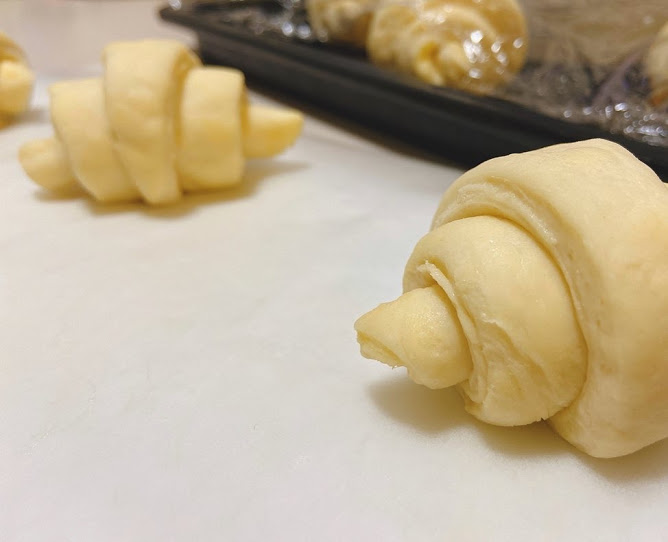
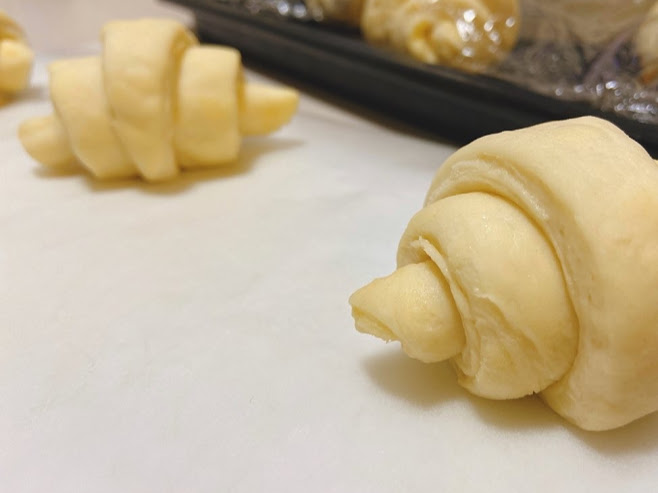
1

diff --git a/croissant.html b/croissant.html
@@ -34,22 +34,22 @@
 <h2 class="section-title">▽フォトギャラリー△</h2>
 
 <div class="contents-item">
-<img src= "image/croi1.jpg" title="成形後のパンたち" width="350">
+<img src= "image/croi1.jpg" title="成形後のパンたち" >
 <p>〜 成形 〜</p>
 </div>
 
 <div class="contents-item">
-<img src="image/croi2.jpg" title="焼成中のパンたち" width="350" height="284">
+<img src="image/croi2.jpg" title="焼成中のパンたち" >
 <p>〜 焼成中 〜</p>
 </div>
  
 <div class="contents-item">
-<img src="image/croi3.jpg" title="焼きたてのパンたち" width="350">
+<img src="image/croi3.jpg" title="焼きたてのパンたち" >
 <p>〜 焼き上がり 〜</p>
 </div>
  
 <div class="contents-item">
-<img src="image/croi4.jpg" title="焼き上がり" width="350">
+<img src="image/croi4.jpg" title="焼きたてのパンたち" >
 <p>〜 焼き上がり 〜</p>
 </div>
 

diff --git a/cinnamon.html b/cinnamon.html
@@ -35,22 +35,22 @@
 <h2 class="section-title">▽フォトギャラリー△</h2>
 
 <div class="contents-item">
-<img src="image/cinnamon1.jpg" title="成形" width="350">
+<img src="image/cinnamon1.jpg" title="成形" >
 <p>〜 成形〜</p>
 </div>
 
 <div class="contents-item">
-<img src="image/cinnamon2.jpg" title="焼成中" width="350">
+<img src="image/cinnamon2.jpg" title="焼成中" >
 <p>〜 焼成中 〜</p>
 </div>
 
 <div class="contents-item">
-<img src="image/cinnamon3.jpg" title="焼きあがり" width="350">
+<img src="image/cinnamon3.jpg" title="焼きあがり" >
 <p>〜 焼き上がり 〜</p>
 </div>
 
 <div class="contents-item">
-<img src="image/cinnamon4.jpg" title="仕上げ" width="350">
+<img src="image/cinnamon4.jpg" title="仕上げ" >
 <p>〜 仕上げ 〜</p>
 </div>
 

diff --git a/shiro.html b/shiro.html
@@ -26,9 +26,9 @@
 </div>
   
 <div class= "coments">
-コロンとしたフォルムがかわいい白パン<br>
-シンプルだけどふんわりもちっと食感がおいしさのポイント<br>
-自家製カシューナッツバターで可愛くおめかしパンに
+コロンとしたフォルムがかわいい白パン。<br>
+シンプルだけどふんわりもちっと食感がおいしさのポイント◎<br>
+自家製カシューナッツバターで可愛くおめかしパンに。
 </div>
 
 <div class= "contents">

diff --git a/croissantstyle.css b/croissantstyle.css
@@ -55,13 +55,12 @@ float: left;
 text-align: center;
 width: 50%;
 margin-top: 50px;
-
 }
 
 .contents-item img{
 display: inline-block;
 vertical-align:middle;
-
+width: 62%;
 }
 
 .contents-item p {

diff --git a/cinnamonstyle.css b/cinnamonstyle.css
@@ -62,7 +62,7 @@ margin-top: 50px;
 .contents-item img{
 display: inline-block;
 vertical-align: middle;
-
+width: 62%;
 }
 
 .contents-item p {

diff --git a/kurumistyle.css b/kurumistyle.css
@@ -64,7 +64,7 @@ margin-top: 50px;
 .contents-item img{
 display: inline-block;
 vertical-align: middle;
-
+width: 62%;
 }
 
 .contents-item p {

diff --git a/melonstyle.css b/melonstyle.css
@@ -63,7 +63,7 @@ margin-top: 50px;
 .contents-item img{
 display: inline-block;
 vertical-align: middle;
-
+width: 62%;
 }
 
 .contents-item p {

diff --git a/petitstyle.css b/petitstyle.css
@@ -64,7 +64,7 @@ margin-top: 50px;
 .contents-item img{
 display: inline-block;
 vertical-align: middle;
-
+width: 62%;
 }
 
 .contents-item p {

diff --git a/raisenstyle.css b/raisenstyle.css
@@ -64,7 +64,7 @@ margin-top: 50px;
 .contents-item img{
 display: inline-block;
 vertical-align: middle;
-
+width: 62%;
 }
 
 .contents-item p {

diff --git a/shirostyle.css b/shirostyle.css
@@ -64,7 +64,7 @@ margin-top: 50px;
 .contents-item img{
 display: inline-block;
 vertical-align: middle;
-
+width: 62%;
 }
 
 .contents-item p {

diff --git a/yamastyle.css b/yamastyle.css
@@ -64,7 +64,7 @@ margin-top: 50px;
 .contents-item img{
 display: inline-block;
 vertical-align: middle;
-
+width: 62%;
 }
 
 .contents-item p {

diff --git a/earlstyle.css b/earlstyle.css
@@ -63,6 +63,7 @@ margin-top: 50px;
 .contents-item img{
 display: inline-block;
 vertical-align: middle;
+width: 62%;
 }
 
 .contents-item p {
